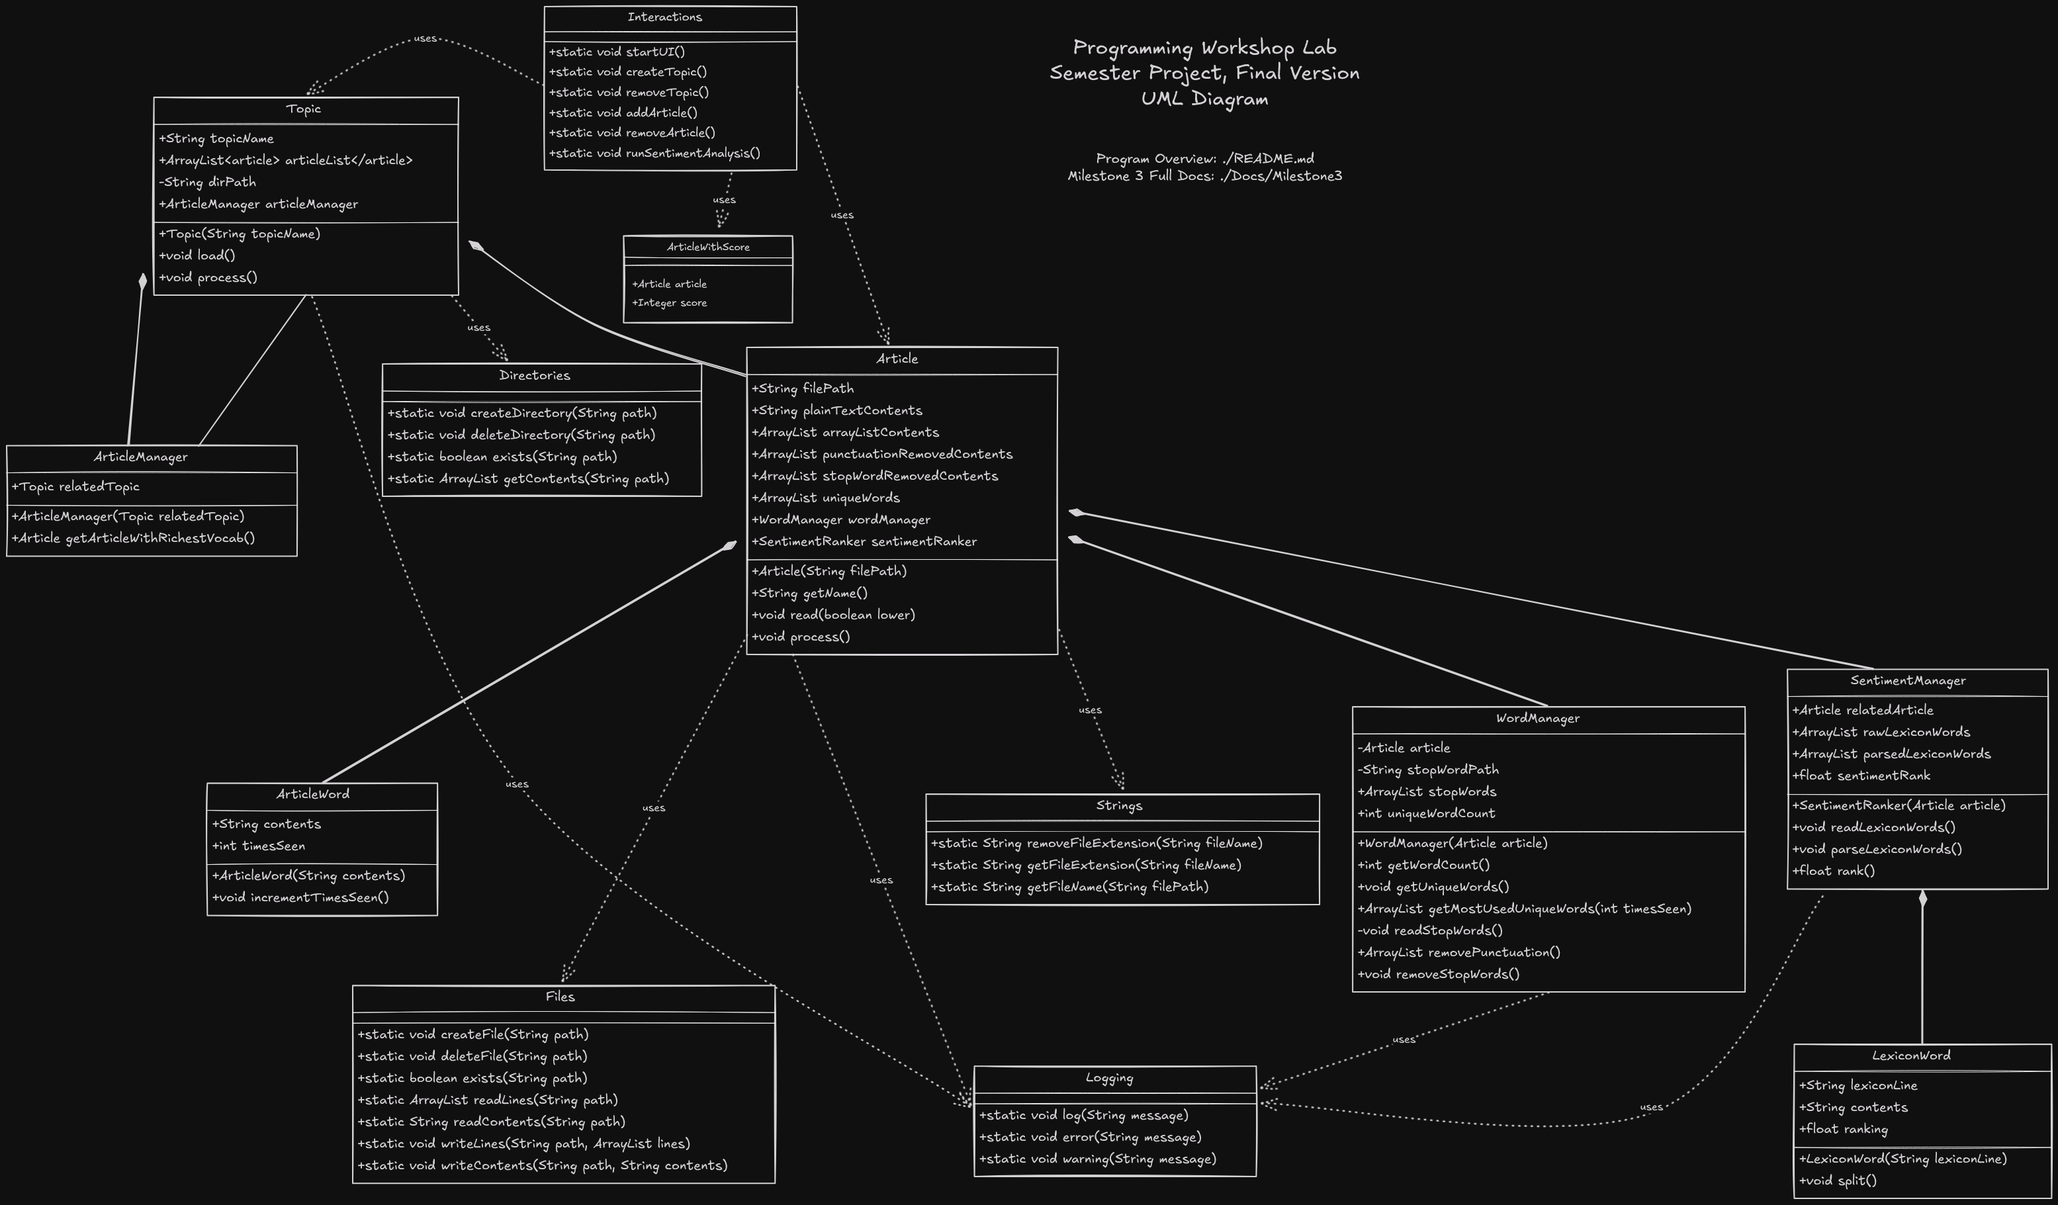
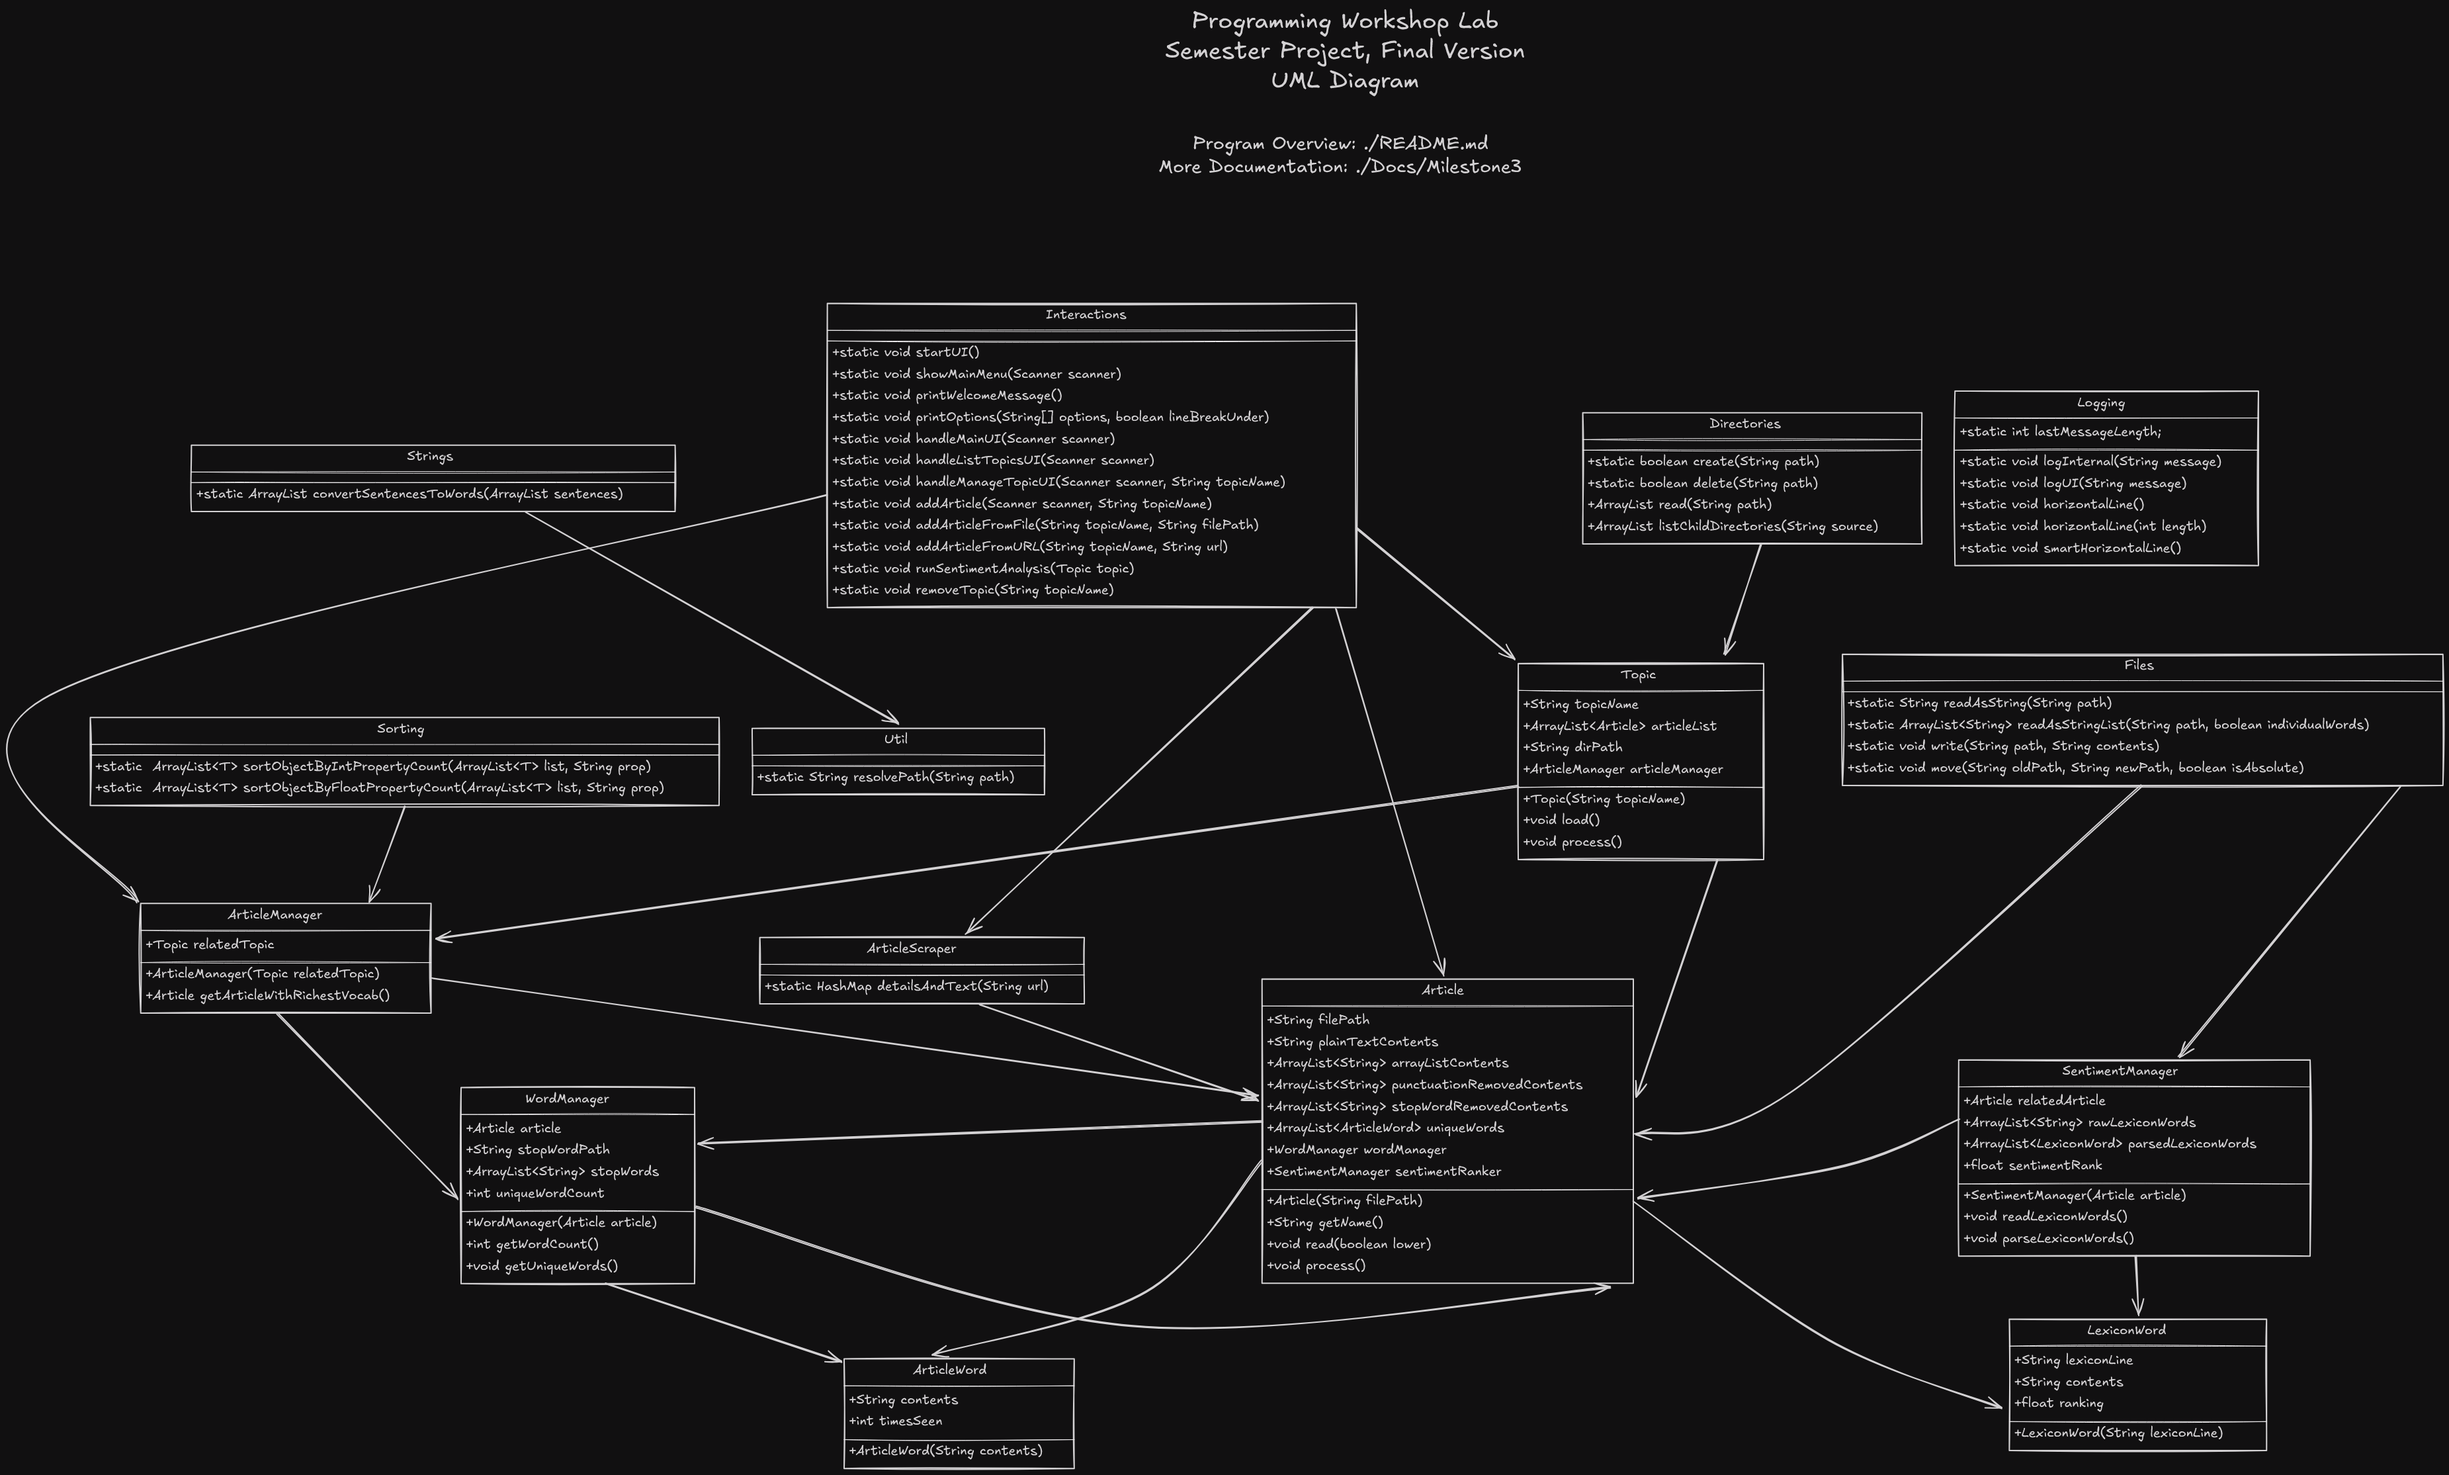
Re-add UMLs with mermaid md

diff --git a/Docs/Milestone3/Diagram.md b/Docs/Milestone3/Diagram.md
@@ -1,0 +1,150 @@
+classDiagram
+    class Article {
+        +String filePath
+        +String plainTextContents
+        +ArrayList~String~ arrayListContents
+        +ArrayList~String~ punctuationRemovedContents
+        +ArrayList~String~ stopWordRemovedContents
+        +ArrayList~ArticleWord~ uniqueWords
+        +WordManager wordManager
+        +SentimentManager sentimentRanker
+        +Article(String filePath)
+        +String getName()
+        +void read(boolean lower)
+        +void process()
+    }
+
+    class ArticleManager {
+        +Topic relatedTopic
+        +ArticleManager(Topic relatedTopic)
+        +Article getArticleWithRichestVocab()
+    }
+
+    class ArticleScraper {
+        +static HashMap<String, String> detailsAndText(String url)
+    }
+
+    class Directories {
+        +static boolean create(String path)
+        +static boolean delete(String path)
+        +ArrayList<String> read(String path)
+        +ArrayList<String> listChildDirectories(String source)
+    }
+
+    class Files {
+        +static String readAsString(String path)
+        +static ArrayList~String~ readAsStringList(String path, boolean individualWords)
+
+        +static void write(String path, String contents)
+        +static void move(String oldPath, String newPath, boolean isAbsolute)
+    }
+
+    class Interactions {
+        +static void startUI()
+        +static void showMainMenu(Scanner scanner)
+        +static void printWelcomeMessage()
+        +static void printOptions(String[] options, boolean lineBreakUnder)
+        +static void handleMainUI(Scanner scanner)
+        +static void handleListTopicsUI(Scanner scanner)
+        +static void handleManageTopicUI(Scanner scanner, String topicName)
+        +static void addArticle(Scanner scanner, String topicName)
+        +static void addArticleFromFile(String topicName, String filePath)
+        +static void addArticleFromURL(String topicName, String url)
+        +static void runSentimentAnalysis(Topic topic)
+        +static void removeTopic(String topicName)
+    }
+
+    class SentimentManager {
+        +Article relatedArticle
+        +ArrayList~String~ rawLexiconWords
+        +ArrayList~LexiconWord~ parsedLexiconWords
+        +float sentimentRank
+        +SentimentManager(Article article)
+        +void readLexiconWords()
+        +void parseLexiconWords()
+    }
+
+    class Sorting {
+        +static <T> ArrayList~T~ sortObjectByIntPropertyCount(ArrayList~T~ list, String prop)
+        +static <T> ArrayList~T~ sortObjectByFloatPropertyCount(ArrayList~T~ list, String prop)
+    }
+
+    class Topic {
+        +String topicName
+        +ArrayList~Article~ articleList
+        +String dirPath
+        +ArticleManager articleManager
+        +Topic(String topicName)
+        +void load()
+        +void process()
+    }
+
+    class WordManager {
+        +Article article
+        +String stopWordPath
+        +ArrayList~String~ stopWords
+        +int uniqueWordCount
+        +WordManager(Article article)
+        +int getWordCount()
+        +void getUniqueWords()
+    }
+
+    class Strings {
+       +static ArrayList<String> convertSentencesToWords(ArrayList<String> sentences)
+    }
+
+    class Util {
+        +static String resolvePath(String path)
+    }
+
+    class Logging {
+
+        +static int lastMessageLength;
+
+        +static void logInternal(String message)
+
+        +static void logUI(String message)
+
+        +static void horizontalLine()
+        +static void horizontalLine(int length)
+
+        +static void smartHorizontalLine()
+
+    }
+
+    class LexiconWord {
+        +String lexiconLine 
+        
+        +String contents
+        +float ranking
+
+        +LexiconWord(String lexiconLine)
+    }
+
+    class ArticleWord {
+        +String contents
+        +int timesSeen
+        +ArticleWord(String contents)
+    }
+
+    Article --> WordManager
+    Article --> SentimentManager
+    Article --> ArticleWord
+    ArticleManager --> Article
+    ArticleManager --> WordManager
+    ArticleScraper --> Article
+    Directories --> Topic
+    Files --> Article
+    Files --> SentimentManager
+    Interactions --> Topic
+    Interactions --> Article
+    Interactions --> ArticleManager
+    Interactions --> ArticleScraper
+    SentimentManager --> Article
+    SentimentManager --> LexiconWord
+    Sorting --> ArticleManager
+    Topic --> Article
+    Topic --> ArticleManager
+    WordManager --> Article
+    WordManager --> ArticleWord
+    Strings --> Util
